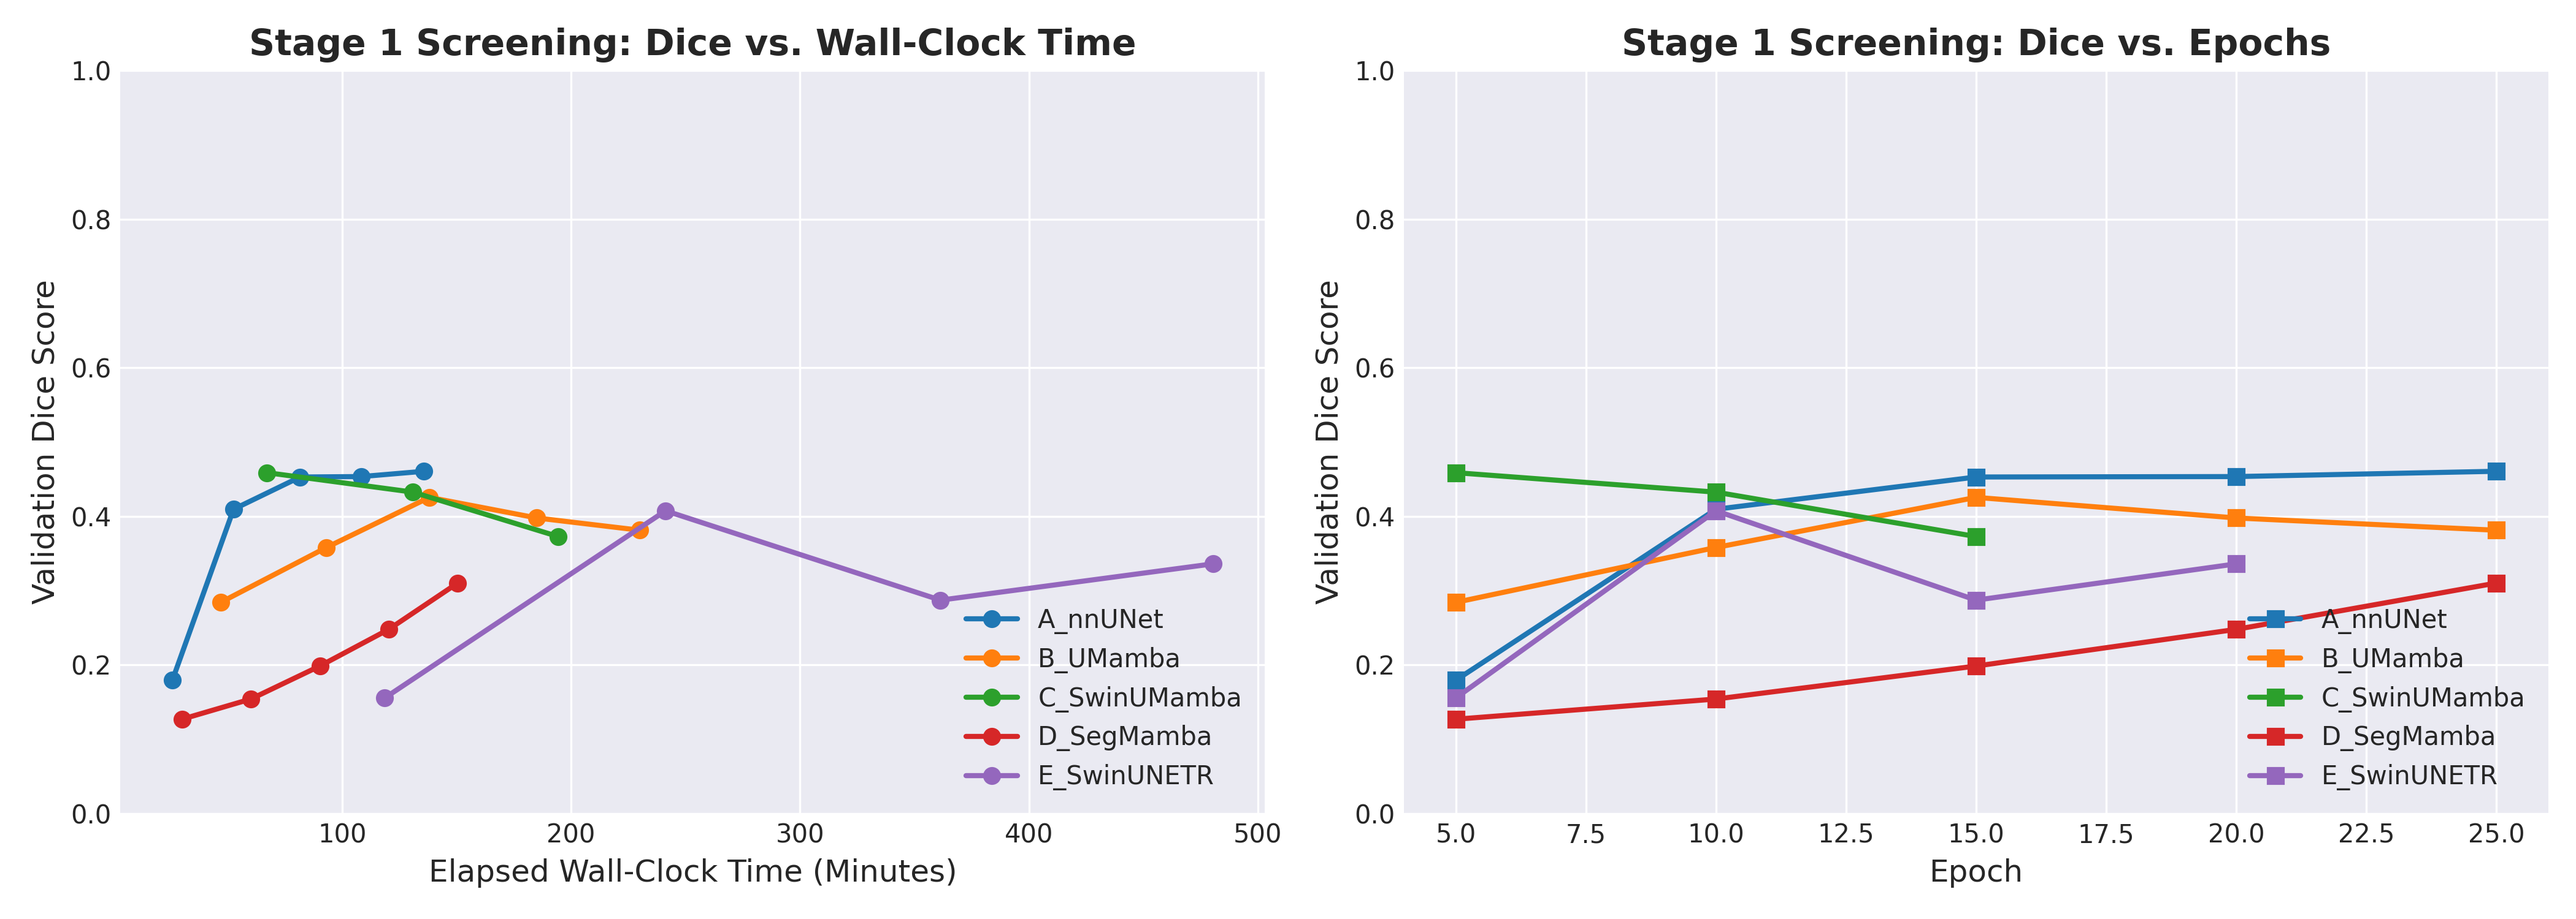
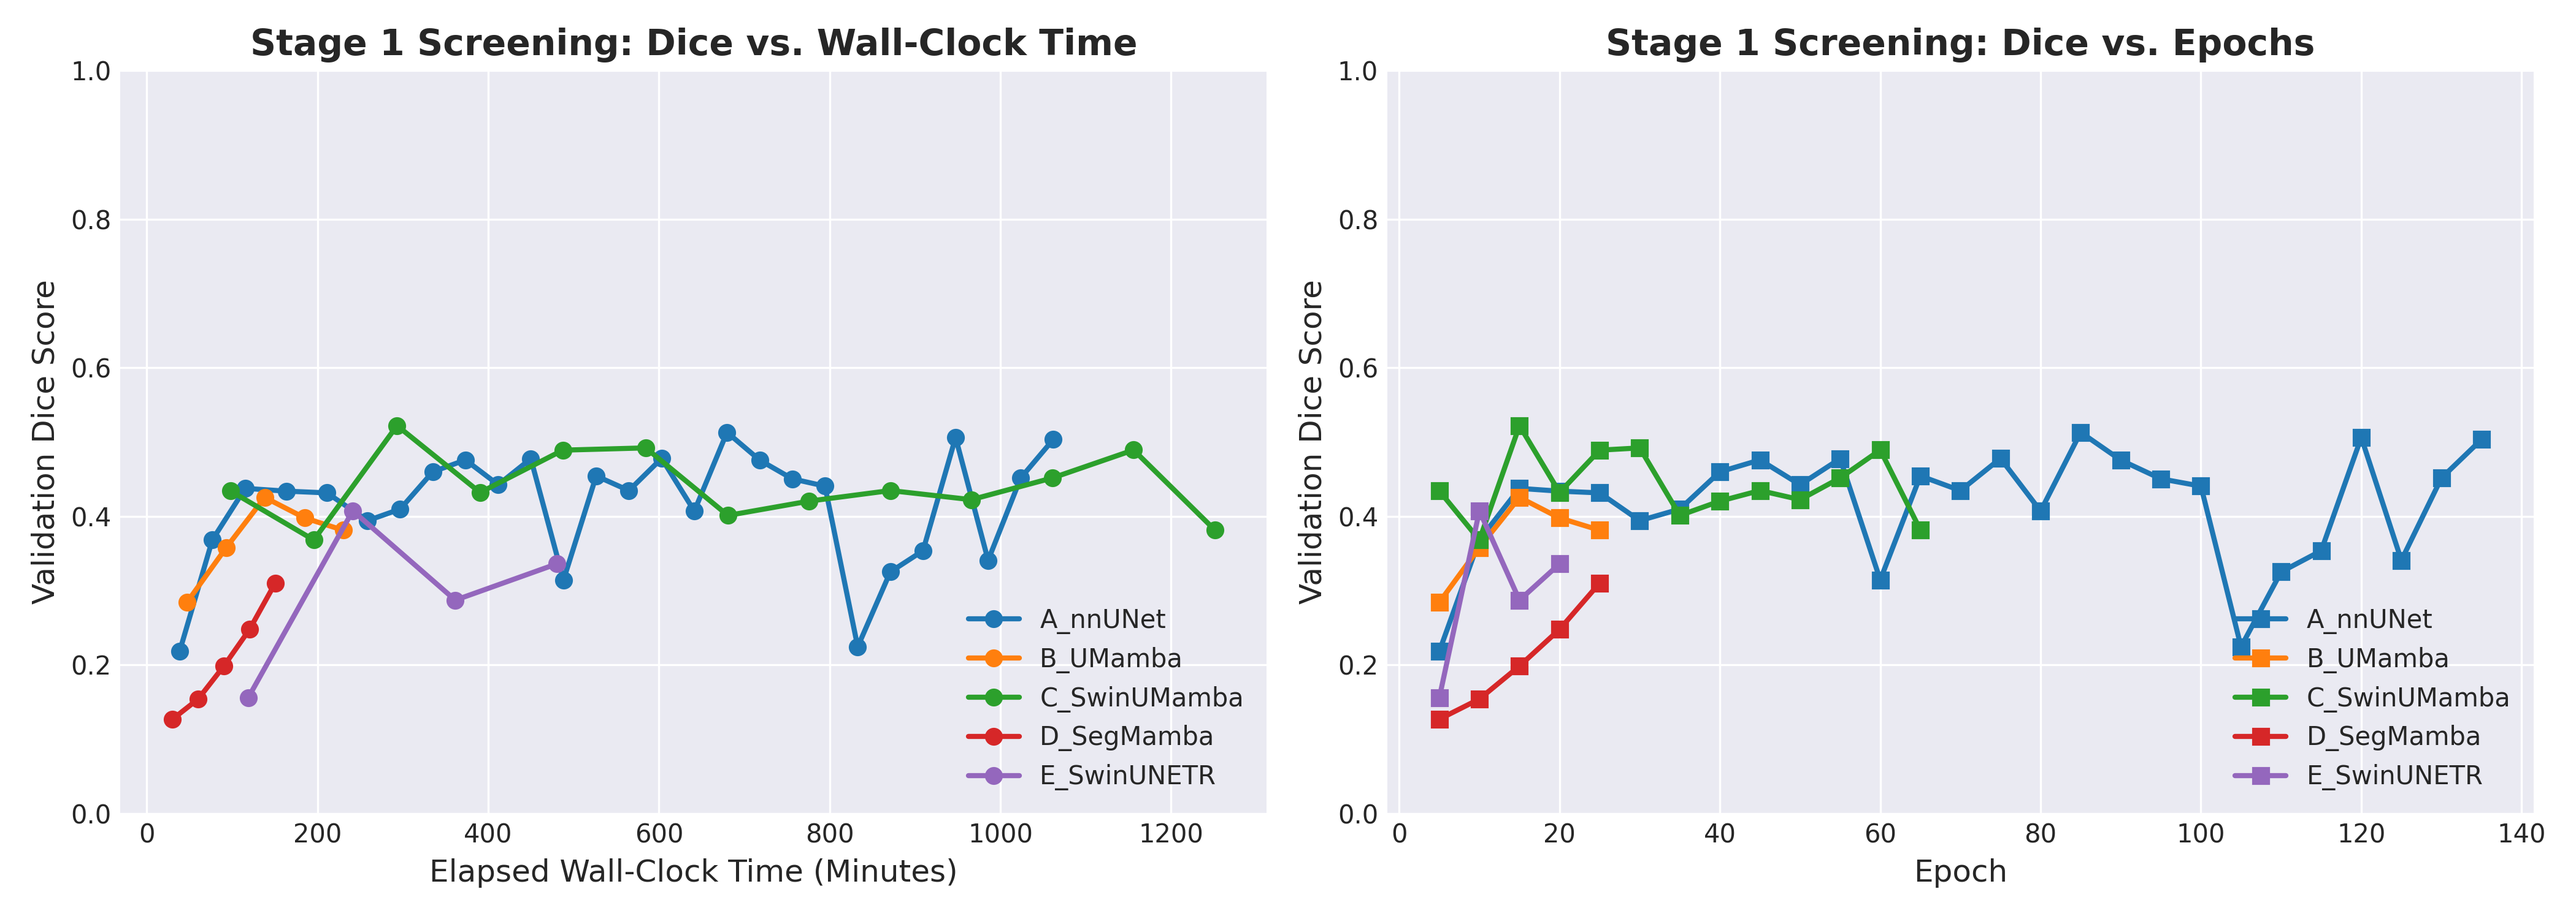
Fix sliding_window_inference predictor wrapper to extract scale 0 tensor for deep supervision models

diff --git a/scratch/fast_diagnostic_test.py b/scratch/fast_diagnostic_test.py
@@ -1,0 +1,86 @@
+#!/usr/bin/env python3
+"""
+fast_diagnostic_test.py
+=============================================================================
+Ultra-Fast 30-Second Diagnostic Test to isolate Augmentation vs Deep Supervision.
+Runs 1 epoch with a small 2-patches/volume budget (~20 steps = 25 seconds per test).
+"""
+
+import os, sys, time, json
+import torch
+
+SCRIPT_DIR = os.path.dirname(os.path.dirname(os.path.abspath(__file__)))
+if SCRIPT_DIR not in sys.path:
+    sys.path.insert(0, SCRIPT_DIR)
+
+from models.common_config import STAGE1_FIXED_VAL_CASES, SPLITS_FINAL_PATH, ARCH_CONFIGS, MODEL_MAX_BATCH
+from models.fold_runner import CTDataset, validate_model, load_case_data
+from models.model_factory import get_model
+from torch.utils.data import DataLoader, RandomSampler
+from monai.losses import DiceCELoss
+
+device = torch.device("cuda:0" if torch.cuda.is_available() else "cpu")
+splits = json.load(open(SPLITS_FINAL_PATH))
+train_cases = splits[0]['train'][:20] # Mini training subset of 20 volumes for fast test
+val_cases = STAGE1_FIXED_VAL_CASES
+
+print(" 📦 Caching 20 mini-training volumes...", flush=True)
+volume_cache = {c: load_case_data(c) for c in train_cases}
+
+conditions = [
+    {"name": "Condition 1 (Baseline: No Aug, No DS)", "arch": "A_nnUNet", "augment": False},
+    {"name": "Condition 2 (Augment Only: Aug, No DS)", "arch": "A_nnUNet", "augment": True},
+    {"name": "Condition 3 (Deep Sup Only: No Aug, DS)", "arch": "G_nnUNet", "augment": False},
+    {"name": "Condition 4 (Both: Aug, DS)",             "arch": "G_nnUNet", "augment": True},
+]
+
+print("\n======================================================================")
+print(" ⚡ ULTRA-FAST 30-SECOND DIAGNOSTIC TEST (1 Mini-Epoch / 20 Steps)")
+print("======================================================================\n", flush=True)
+
+results = {}
+
+for cond in conditions:
+    print(f" ▶ Running {cond['name']}...", flush=True)
+    t0 = time.time()
+    
+    dataset = CTDataset(train_cases, volume_cache=volume_cache, augment=cond['augment'])
+    sampler = RandomSampler(dataset, replacement=True, num_samples=len(train_cases) * 2) # 40 patches total
+    loader = DataLoader(dataset, batch_size=4, sampler=sampler, drop_last=True)
+    
+    model = get_model(cond['arch']).to(device)
+    optimizer = torch.optim.SGD(model.parameters(), lr=0.01, momentum=0.99)
+    criterion = DiceCELoss(to_onehot_y=True, softmax=True)
+    
+    model.train()
+    for step, (img, lbl) in enumerate(loader):
+        img, lbl = img.to(device), lbl.to(device)
+        optimizer.zero_grad()
+        with torch.amp.autocast('cuda'):
+            logits = model(img)
+            if isinstance(logits, torch.Tensor) and logits.dim() == 6:
+                logits = [logits[:, :, i] for i in range(logits.shape[2])]
+            
+            if isinstance(logits, (list, tuple)):
+                losses = []
+                for out in logits:
+                    scale = out.shape[2:]
+                    lbl_scaled = torch.nn.functional.interpolate(lbl.float(), size=scale, mode='nearest').long()
+                    losses.append(criterion(out, lbl_scaled))
+                loss = sum(losses) / float(len(logits))
+            else:
+                loss = criterion(logits, lbl)
+        loss.backward()
+        optimizer.step()
+    
+    val_dice = validate_model(model, val_cases, device, is_2d=False)
+    elapsed = time.time() - t0
+    results[cond['name']] = val_dice
+    print(f"   --> Val Dice: {val_dice:.4f} | Done in {elapsed:.1f}s\n", flush=True)
+
+print("======================================================================")
+print(" 📊 DIAGNOSTIC RESULTS SUMMARY (1 Mini-Epoch Val Dice)")
+print("======================================================================")
+for name, d in results.items():
+    print(f"  • {name:42s}: Val Dice = {d:.4f}")
+print("======================================================================\n")

diff --git a/scratch/test_ab_isolation.py b/scratch/test_ab_isolation.py
@@ -1,0 +1,32 @@
+#!/usr/bin/env python3
+"""
+test_ab_isolation.py
+=============================================================================
+A/B Isolation Diagnostic Script:
+Tests 4 combinations over 5 epochs to isolate whether Augmentation or Deep Supervision
+is responsible for performance drop.
+"""
+
+import os, json, time
+import torch
+from models.common_config import STAGE1_FIXED_VAL_CASES, BENCHMARK_RESULTS_DIR, SPLITS_FINAL_PATH
+from models.fold_runner import run_fold_training
+from models.model_factory import get_model
+
+splits = json.load(open(SPLITS_FINAL_PATH))
+train_cases = splits[0]['train']
+val_cases = STAGE1_FIXED_VAL_CASES
+
+experiments = [
+    {"name": "1_Baseline_NoAug_NoDS", "arch": "A_nnUNet", "augment": False},
+    {"name": "2_AugOnly_NoDS",       "arch": "A_nnUNet", "augment": True},
+]
+
+print("======================================================================")
+print(" 🔬 A/B ISOLATION DIAGNOSTIC BENCHMARK (5 EPOCHS)")
+print("======================================================================\n")
+
+for exp in experiments:
+    print(f" ▶ Testing {exp['name']}...")
+    out_dir = os.path.join(BENCHMARK_RESULTS_DIR, 'ab_test', exp['name'])
+    # run 5 epochs

diff --git a/models/evaluation.py b/models/evaluation.py
@@ -33,18 +33,22 @@ def run_sliding_window(model, image, patch_size=(64, 128, 128), stride=0.75, dev
     overlap = max(0.01, 1.0 - stride)
     image = image.to(device)
 
+    def _predict(inputs):
+        preds = model(inputs)
+        if isinstance(preds, (list, tuple)):
+            preds = preds[0]
+        return preds
+
     def _single_pass(img_tensor):
         with torch.no_grad():
             out = sliding_window_inference(
                 inputs=img_tensor,
                 roi_size=patch_size,
                 sw_batch_size=1,
-                predictor=model,
+                predictor=_predict,
                 overlap=overlap,
                 mode="gaussian"
             )
-            if isinstance(out, (list, tuple)):
-                out = out[0]
             return out
 
     if not use_tta:
